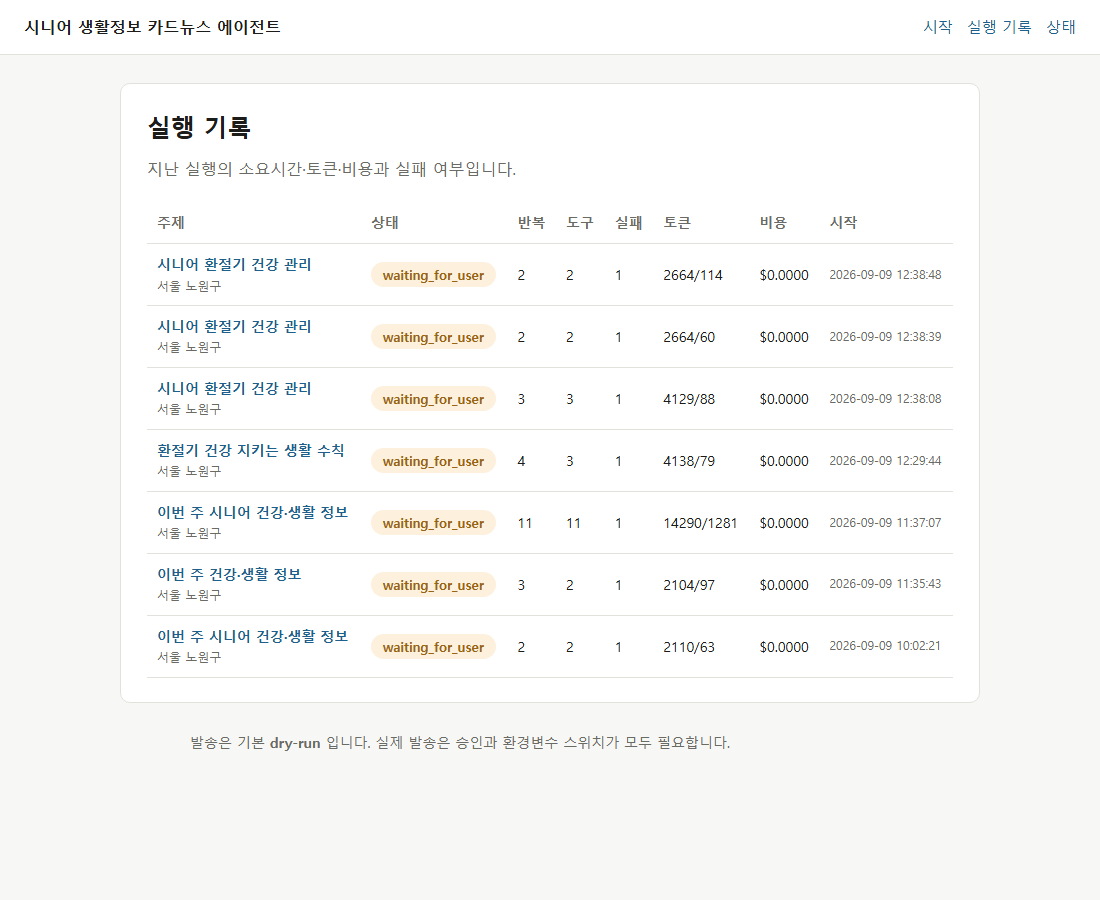
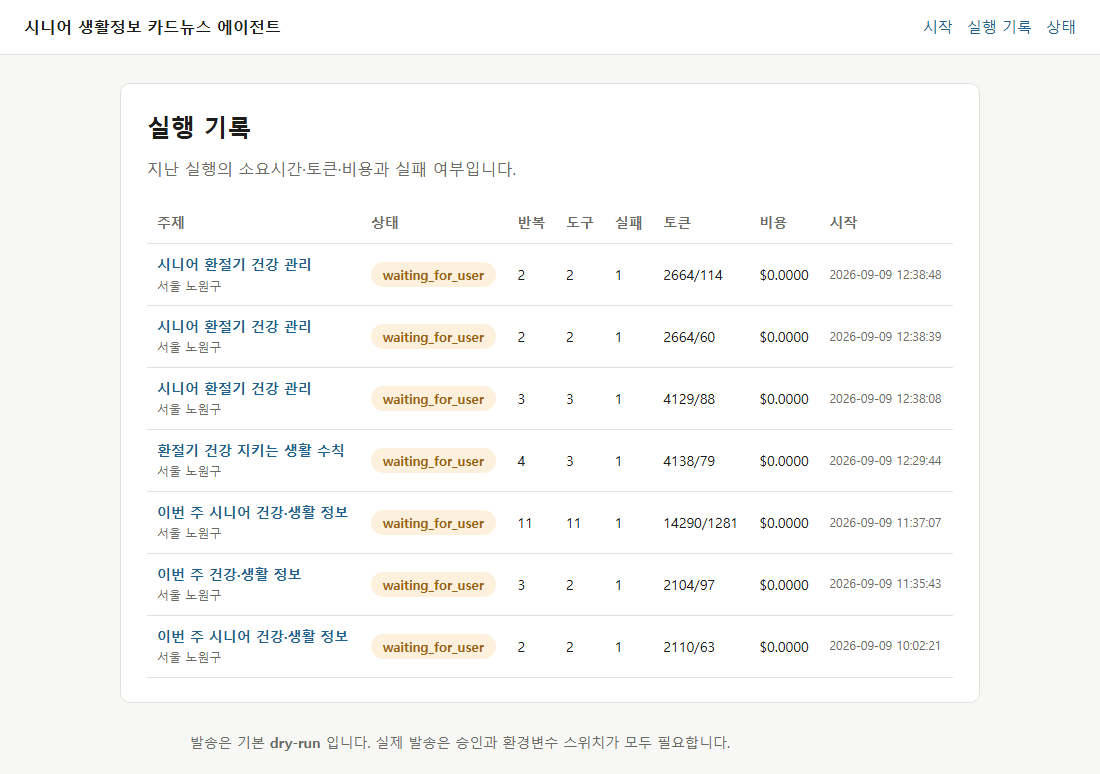
라이선스 출처 추가 + 캡처 여백 정리
라이선스
- LICENSE (MIT) 추가
- README 에 라이브러리 라이선스 표. 짐작이 아니라 설치된 패키지
  메타데이터에서 읽은 값이다
- 외부 서비스 조건과 무료 한도 명시

폰트 문제를 정직하게 적었다
- 지금 맑은 고딕(Windows 기본)을 읽어 쓰고 있다
- 마이크로소프트 폰트는 재배포가 안 되므로 저장소에 넣지 않았고 넣어서도 안 된다
- 그래서 Windows 가 아닌 곳에서는 카드 합성이 실패한다
- theme.py 가 Pretendard 를 먼저 찾도록 되어 있어 폰트만 넣으면 해결된다
  마감에 쫓겨 교체까지 못 했다는 것도 그대로 적었다

캡처
- 창을 내용보다 크게 잡아 아래가 비어 있던 것을 잘라냈다
  09-full-run 은 728px, 06-dashboard 는 274px 가 빈 여백이었다
- 02-question 은 전체 페이지가 아니라 질문 영역에 집중되도록 다시 찍었다

diff --git a/README.md b/README.md
@@ -326,6 +326,50 @@ cloudflared --config deploy/cloudflared.yml tunnel run cardnews
 **LINE 실채널은 연결하지 않았습니다.** dry-run으로만 검증했습니다.
 도구 스키마와 3중 잠금 로직은 그대로 있고, 실제 채널 연결만 남았습니다.
 
+## 라이선스·출처
+
+이 저장소의 코드·문서·생성 데이터는 **MIT 라이선스**입니다 ([LICENSE](./LICENSE)).
+의존하는 라이브러리와 서비스는 각자의 라이선스를 따릅니다.
+
+### 라이브러리
+
+| 항목 | 라이선스 |
+|---|---|
+| FastAPI · pydantic-settings · MCP SDK · tavily-python | MIT |
+| uvicorn · httpx · Jinja2 | BSD |
+| trafilatura · google-genai · openai · python-multipart | Apache-2.0 |
+| Pillow | MIT-CMU |
+
+위 값은 짐작이 아니라 설치된 패키지 메타데이터에서 읽은 것입니다.
+
+### 외부 서비스
+
+| 항목 | 출처 / 조건 |
+|---|---|
+| Gemini API | [Google AI 무료 티어](https://ai.google.dev/gemini-api/terms) · **모델당 하루 20회** |
+| Tavily | [tavily.com](https://tavily.com) · 무료 티어 월 1,000크레딧 |
+| Open-Meteo | [open-meteo.com](https://open-meteo.com) · 비상업적 무료, 키 불필요 |
+| Antigravity CLI | [antigravity.google](https://antigravity.google) · 캐릭터 이미지 생성에만 사용 |
+
+### 폰트 — 지금 상태로는 다른 컴퓨터에서 그대로 못 씁니다
+
+카드 글자에 **맑은 고딕**(`C:/Windows/Fonts/malgun.ttf`)을 쓰고 있습니다.
+Windows에 기본으로 깔린 폰트를 읽어 쓰는 것이라 저장소에 폰트 파일을 넣지 않았고,
+넣어서도 안 됩니다. 마이크로소프트 폰트는 재배포가 허용되지 않습니다.
+
+그래서 Windows가 아닌 곳에서 실행하면 폰트를 찾지 못해 카드 합성이 실패합니다.
+`app/cards/theme.py`의 `FONT_CANDIDATES`가 **Pretendard를 먼저 찾고 없으면 맑은 고딕으로
+떨어지도록** 되어 있으니, `assets/fonts/`에 Pretendard(SIL Open Font License)를 넣으면
+그 문제가 사라지고 재배포도 가능해집니다. 마감에 쫓겨 폰트 교체까지 못 했습니다.
+
+### 생성물
+
+캐릭터 이미지 네 자세는 Antigravity(Gemini 이미지 모델)로 만들었고,
+마젠타 배경을 코드로 지워 자산으로 만들었습니다. 실제 인물의 사진이나 초상은 쓰지 않았습니다.
+
+카드에 들어가는 문구와 스토리보드는 실행할 때마다 Gemini가 만듭니다.
+저장소에 들어 있는 카드 다섯 장은 2026년 9월 9일에 실제로 생성한 결과물입니다.
+
 ## 폴더 구조
 
 ```
